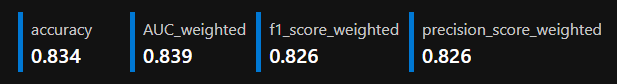
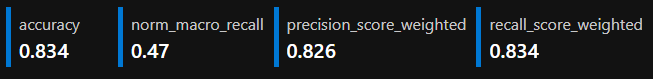
210421

Changed region(s): [[0.0, 0.0759, 0.9854, 0.8608], [0.4619, 0.2278, 0.5235, 0.2532]]

diff --git a/chapters/discussion.tex b/chapters/discussion.tex
@@ -3,12 +3,16 @@
 
 \section{..}
 \begin{itemize}
-\item talk about using azure ml 
-\item did covid have an influence
-\item would results be better split on a property level
-\item Talk about how feature visualization can be used within the company CRM to identify important attributes 
-\item how results compare with similar papers in revenue management 
-\item as a classification problem and my highlighting the features that cause cancellations I hope to be able to integrate results into the PMS system and take specific actions aimed at preventing bookings from being canceled by using personalized data specific to the individual booking
+\item In comparison to using the python libraries to create the models manually, using azure ml allowed for me to test a larger variety of algorithms and gaining more accurate results. Azure ml has built in functionality that allows for an explanation of the model and the results which can allow for a better understanding of the model results, such as the feature explanation. This subsequently can be used to retrain the model, further improving its accuracy. 
+\item  From a machine learning point of view, using azure ml is beneficial to be able to test multiple different algorithms and select the one with the best results in a more efficient manner. This is also beneficial from the business perspective as it provides an explanation behind the results, allowing for insights into the models accuracy. From this specific dataset, Stack Ensemble was found to be the most accurate in predicting booking cancellations. Using azure ml allowed for Stack Ensemble to be identified as the best algorithm to be used on this dataset which would not have been identified otherwise. This has produced significantly better results in comparison to the original algorithm used, xgboost. 
+\item The dataset used in this project was from the time period 2020-2021. There is a chance that the amount of cancellations and the reasons behind these could have been affected by the Coronavirus pandemic, potentially influencing the results of this model. In some cases students have been advised to stay at home and not live in halls during this time period, meaning that the booking would have been cancelled. This could have produced a dataset which is not fully representative of a normal academic year. However, the ratio of cancellations in this dataset was in line with previous research (\textbf{reference)}, suggesting that the pandemic may not have had an affect at all. There was no available data from before the Coronavirus pandemic which could be used in this project. In order to be sure that the dataset was not affected by the Coronavirus pandemic, these findings should be compared to future years.
+\item However, there are some valuable insights that can be gained from this project regardless of Coronavirus. It is likely that the Coronavirus pandemic will still have a significant impact on the student accommodation industry in the next academic year. Being able to analyse the 2020-2021 booking data has allowed for the prediction of cancellations and the reasons behind these. This can be useful to determine business strategies to implement with the aim to reduce student accommodation cancellations in the next academic year. 
+\item Due to insufficient amount of data for some properties, the model in this project used all properties to predict cancellations. It is likely that creating a model that predicts cancellations on a per property basis would be more accurate. This is reinforced by previous research in revenue management which uses a per property level for there models \textbf{(reference)}. A per property model would likely be more accurate as each property has different attributes and different potential reasons for cancellations. For example, the properties in this dataset were in a variety of countries, at different universities and the price varied heavily depending on location. Although the findings of this model were still useful, future research should focus on using more data and making the model property specific. 
+\item \textbf{how results compare with similar papers in revenue management }
+\item As with all machine learning problems, the model is most accurate when trained over a number of iterations. This usually takes a long time in writing the code and preparing the model. Using azure ml, the iterations of the model can be trained more efficiently and understand the results better. This was particularly beneficial in this project as it allowed for the realisation that targeting the precision was a more accurate method. Originally, the accuracy was targeted which is the total number of correct predictions, both true and false. However, due to the weighting of not cancelled bookings in the test data, a high accuracy was achieved without predicting many true bookings. Looking at the confusion matrix, number of false positives and true positives were roughly the same, meaning the model hadn't accurately predicted any of the bookings. Instead, the model accurately predicted bookings that weren't going to be cancelled. These findings produced no valuable insights as the standard assumption is that bookings are not going to be cancelled. 
+\item To produce a more beneficial model, the primary metric was changed to target recall instead. Recall is a more useful insight as it identifies the bookings that are going to be cancelled. Using azure ml allowed for a straightforward method of changing the target metric. This subsequently allowed for the model to be re run with recall as the target metric. The results of this model were more beneficial by allowing for actual cancellations to be predicted. 
+\item The dataset includes 75 percent of bookings as not cancelled, with only 25 percent being cancelled. This ratio of data produces biased towards the not cancelled bookings which is not ideal when using the data to predict cancellations. If the data was changed to contain a 50:50 split, the model could potentially be more accurate. Having a dataset which is more heavily weighted as cancelled would allow the model to be less biased towards non cancelled bookings. Future research should experiment with different sizes of data-sets to identify at which point the most accurate model would be achieved. 
+\item \textbf{doing this resulted in using a different algorithm}
 \end{itemize}
 
 
@@ -31,6 +35,6 @@
 \end{itemize}
 
 
-
+r
 
 \section{Summary}

diff --git a/chapters/results.tex b/chapters/results.tex
@@ -1,31 +1,76 @@
 \chapter{Results}
 \label{ch:results}
 
+\textbf{The results section needs to start with a summary of what the study is and what methods were used. someone should be able to read only your results and know exactly whats going on}
+
+During the first run of my results I compared \textbf{21} different classification algorithm and scalier values taking the result with the best overall accuracy.
+\begin{itemize}
+\item include table of these results#
+\item I run the algorithm using the Python SDK for automated ML on a cloud compute cluster
+\item talk about the train test split
+\item The dataset I am using has 75 percent not cancelled bookings and 25 percent cancelled bookings
+\item talk about n cross validations
+\item talk about auto featurization
+\end{itemize}
+I found that the best algorithm was XGboost with SparseNormalizer 
 
 \begin{figure}[hbt!]
  %\centering
- \includegraphics[width=15cm]{figures/canc_prob.png}
- \caption{Predictions made on the test dataset, ranking bookings by percentage chance cancelled. This is what will be added into the booking management system to help understand what bookings will be cancelled}
+ \includegraphics[width=10cm]{figures/azure_ml_confusion_matrix_xg.png}
+ \includegraphics[width=10cm]{figures/xg_boost_scores.png}
+ \caption{Confusion matrix from first run normalized}
 \end{figure}
 
-\section{XGboost}
 
-for the section I run the algorithm manually so I could evaluate a comparison of the results between the automated ml model and using the standard XGboost library with no \textbf{hyper parameter tuning or feature stuff}
+\begin{itemize}
+\item A confusion matrix is a table that shows how well a classification model performs on a collection of test data for which the true values are known. The 4 sections that make up a confusion matrix are, true positives (TP) these are bookings that the model predicted as cancelled and are actually cancelled. True negatives (TN) these are bookings predicted correctly as not cancelled. False positives (FP) are bookings that the model predicted as cancelled but didn't and False negatives (FN) these are bookings the model predicted as not cancelled but did cancel. TP is the most important because this is where the model has predicted a booking as going  to cancel and has actually cancelled which is the objective of this research
+\item  The accuracy of a classification model is (TP+TN)/total. This is the number of bookings accurately classified as either cancelled or not cancelled, In this case it is more valuable to classify TP than TN since cancelled bookings are the focus of this research. figure \textbf{4.1} shows  0.93TF 0.54TP gives an overall accuracy of 0.83, this appears to be a very good result with over 80 percent of the bookings accurately predicted.
+\item Recall is TP / (TP + FN), this is the proportion of actual positive values predicted correctly \textbf{figure 4.2} shows this is only 47 percent of true positive values are identified correctly. Showing that accuracy is not the most important metric here since with no true positive values predicted correctly the accuracy would still be 75 percent and the original problem statement has not been solved. 
+\item knowing that Recall should be my primary metric to target and not accuracy using Azure ML I was able to change the target metric to Recall. \textbf{figure 4.3} shows the settings I applied with the new primary metric being norm macro recall. Setting the primary metric means Auto ML can optimise the model selection based on recall.
+\item Include the results of the first run with azure ml - talk about all of the different algorithms and scalars used along with the number of cross validations
+\item talk about K fold cross validation
+\end{itemize}
 
 
 \begin{figure}[hbt!]
  %\centering
- \includegraphics[width=15cm]{figures/azure_ml_confusion_matrix_xg.png}
- \caption{The confusion matrix output from the XGBoost algorithm shows a close to 50-50 slit when comparing Actual True with false positive. This shows bad \textbf{recall?}}
+ \includegraphics[width=10cm]{figures/auto_ml_settings.png}
+ \caption{Confusion matrix from first run normalized}
 \end{figure}
 
 
-\section{Auto ML}
+During this run I used Azure ML to evaluate and compare multiple different algorithms
 
-Here I used Auto ML to evaluate and compare \textbf{some number} of different algorithms looking at the norm macro recall as the target value instead of the accuracy as this reduces false positive rate
+\begin{itemize}
+\item knowing that I wanted to take the algorithm with the best recall I run Auto ML again keeping all other values the same, and only changing the primary metric 
+\item same dataset and train test split
+\item target metric changed to recall, meaning it evaluates and ranks the results differently 
+\item what algorithms did it test this time
+\item what is the accuracy, recall and precision
+\end{itemize}
 
 \begin{figure}[hbt!]
  %\centering
- \includegraphics[width=15cm]{figures/azure_ml_confusion_matrix_xg.png}
- \caption{The confusion matrix output from the XGBoost algorithm shows a close to 50-50 slit when comparing Actual True with false positive. This shows bad \textbf{recall?}}
+ \includegraphics[width=10cm]{figures/azure_ml_confusion_matrix.png}
+ \caption{Confusion matrix from final run of StackEnsemble algorithm, shows 71 percent recall}
 \end{figure}
+
+\begin{itemize}
+\item do XGBoost vs StackedEnsemble, what is one better in this case
+\item 
+\end{itemize}
+
+
+\begin{figure}[hbt!]
+ %\centering
+ \includegraphics[width=10cm]{figures/canc_prob.png}
+ \caption{prediction probability ranking each of the bookings made a chance of canceling}
+\end{figure}
+
+\begin{itemize}
+\item classification is a value between 0 and 1, at over 0.5 booking gets classified as cancelled 
+\item prediction probability is able to rank bookings made by there chance of cancelling 
+\end{itemize}
+
+
+

diff --git a/chapters/introduction.tex b/chapters/introduction.tex
@@ -45,7 +45,10 @@ To understand what the best way to approach the solution to the problem would be
 \begin{itemize}
 \item explain this better
 \end{itemize}
-To do this I will be using the cross industry standard process for data mining (CRISP-DM)
+
+To account for the multiple different stages involved in the Data Mining process I am going to be using the CRISP-DM model (\cite{WirthCRISP-DM:Mining}) to break down the problem into 6 specific stages \textbf{reference the figure}, these stages are business understanding, data understanding, data preparation, modeling, evaluation and deployment.
+
+According to current research, CRISP-DM is the most commonly used data-mining model due to its numerous advantages, which solved existing data-mining problems. 
 
 
 \vspace{5mm}
@@ -56,7 +59,15 @@ To do this I will be using the cross industry standard process for data mining (
 
 
 
-For this paper I will be creating a single model using the Azure ML studio to find if it is able to make accurate predictions on the data. I am using Azure ML because it provides the functionality to deploy models onto a cloud environment that can be easily integrated into the booking management system through the provided API . It also allows for easier retraining on the model after the evaluation stage while testing a number of different regression models each time and selecting the one with the highest accuracy. For this paper I will only be testing the model first iteration of the model 
+For this paper I will be creating a single model using the Azure ML studio to find if it is able to make accurate predictions on the data. I am using Azure ML because it provides the functionality to deploy models onto a cloud environment that can be easily integrated into the booking management system through the provided API . It also allows for easier retraining on the model after the evaluation stage while testing a number of different regression models each time and selecting the one with the highest accuracy. For this paper I will only be testing the model first iteration of the model.
+
+This model will produce predictions for booking cancellations, in order for the model to be useful, the outcome has to be in a format which is useful to the company and can be acted on. The intended outcome of this research is to have the ability to rank bookings by the probability of them being cancelled, providing a platform to integrate the model results into the companies booking system. Doing this would allow the company to have the ability to input whether or not the prediction was correct. The model would then be able to be retrained based off the outcomes of the predictions, over time allowing for the models accuracy to be increased. 
+
+In order for the solution of this problem to be useful, the solution method has to be fast and dynamic. In the student accommodation industry, there is a need for fast and dynamic modelling to allow for the cancellation prediction to be in a time-frame that allows for actions to be taken to prevent the cancellation. Predicting the cancellation too late would not produce as useful information. Using azure ml can allow for a fast and dynamic method of predicting cancellations. 
+
+One of the problems that needed to be solve was how to get access to get data that is suitable for machine learning. This aspect consistently requires more time as seen in previous literature (\textbf{reference).} To perform machine learning, data needs to be accessible in a suitable format and stored appropriately. The current booking system behind the dataset in this research does not store the data in a way that is suitable for use in machine learning. Building a data warehouse allows for the data to be converted into an appropriate format for machine learning problems. An important aspect involves the ability of the data warehouse to update upon new bookings and allow instant access to the data, a feature of the data warehouse using azure cloud which was used in this project. 
+
+
 
 \begin{itemize}
 \item working with the company to understand what the requirements are, how cancellations predictions will be used, how results will be displayed to employees

diff --git a/chapters/conclusions.tex b/chapters/conclusions.tex
@@ -8,6 +8,10 @@ The final model accuracy gives a score  of 83 percent, this is consistent with t
 \section{Future Work}
 implementing my model into the PMS system I hope to be able to highlight customers on a daily basis who are most likely to cancel there bookings through a ranking system, using the models feature explanation I should be able to identify the reason why this customer has been selected as most likely to cancel there booking and with the provide a recommended set of messages to send the customer in an attempt to prevent the cancellation from occurring. 
 
+Talk about how feature visualization can be used within the company CRM to identify important attributes 
+
+as a classification problem and my highlighting the features that cause cancellations I hope to be able to integrate results into the PMS system and take specific actions aimed at preventing bookings from being canceled by using personalized data specific to the individual booking
+
 \vspace{5mm}
 
 With a clean dataset in place that encapsulates the customers data I think I can extend the predictive capabilities beyond predicting cancellations to predicting what new properties will be most profitable in the feature to assist in company decisions of which properties to buy and which to sell.

diff --git a/chapters/methodology.tex b/chapters/methodology.tex
@@ -1,7 +1,12 @@
 \chapter{Methodology}
 \label{ch:method}
+
+\begin{itemize}
+\item explain that the dataset has a 3:1 split of cancelled to not cancelled
+\end{itemize}
+
 \section{...}
-To account for the multiple different stages involved in the Data Mining process I am going to be using the CRISP-DM model (\cite{WirthCRISP-DM:Mining}) to break down the problem into 6 specific stages \textbf{reference the figure}, these stages are business understanding, data understanding, data preparation, modeling, evaluation and deployment in this section I will outline each of the steps involved.
+As previously mentioned, I am going to be using the CRISP-DM model (\cite{WirthCRISP-DM:Mining}) to break down the problem into 6 specific stages \textbf{reference the figure}.
 
 
 \section{Business Understanding}
